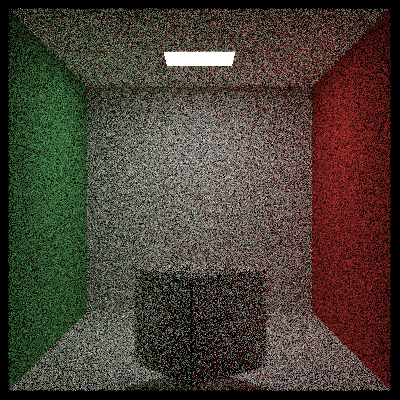
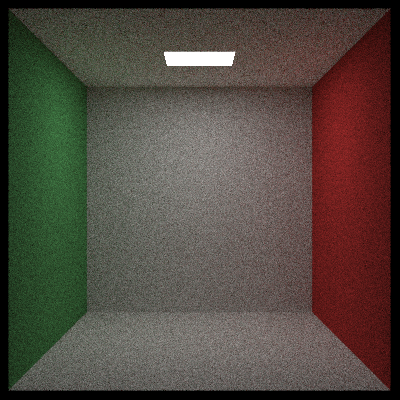
Interactive rendering

diff --git a/source/systems/ray-tracing-renderer/ray-tracing-renderer.cc b/source/systems/ray-tracing-renderer/ray-tracing-renderer.cc
@@ -28,62 +28,91 @@ glm::vec3 random_unit_vector()
     return glm::normalize(random_in_unit_sphere());
 }
 
-void racer::RayTracingRendererSystem::RenderScene(Scene *sceneToRender, unsigned char *pixels, int width, int height)
+void racer::RayTracingRendererSystem::RenderScene(Scene *sceneToRender, unsigned char *pixels_array, int width, int height)
 {
-    this->scene = sceneToRender;
+    scene_ = sceneToRender;
+    aspectRatio_ = (float)width / height;
+    fov_correction_ = static_cast<float>(tan(scene_->active_camera_->GetTanFOV() / 2.0f));
 
-    float aspectRatio = (float)width / height;
-    float fov_correction = static_cast<float>(tan(scene->active_camera_->GetTanFOV() / 2.0f));
+    width_ = width;
+    height_ = height;
 
-    glm::mat4 camera_rotation_matrix = scene->active_camera_->holdingEntity->transform->GetRotationMatrix();
+    pixels_array_ = pixels_array;
 
-    for (size_t shapeIndex = 0; shapeIndex < scene->shapes_to_render_.size(); shapeIndex++)
+    for (size_t shapeIndex = 0; shapeIndex < scene_->shapes_to_render_.size(); shapeIndex++)
     {
-        scene->shapes_to_render_[shapeIndex]->UpdateBoundingBox();
+        scene_->shapes_to_render_[shapeIndex]->UpdateBoundingBox();
     }
 
-    for (int i = 0; i < height; i++)
+    rendering_index_x_ = 0;
+    rendering_index_y_ = 0;
+
+    is_rendering_ = true;
+}
+
+void racer::RayTracingRendererSystem::UpdateRender()
+{
+    if (!is_rendering_)
+        return;
+
+    glm::mat4 camera_rotation_matrix = scene_->active_camera_->holdingEntity->transform->GetRotationMatrix();
+
+    int samples_per_pixel = 1500;
+    float scale = 1.0f / static_cast<float>(samples_per_pixel);
+
+    glm::vec3 pixelColor = glm::vec3(0.0);
+    for (int s = 0; s < samples_per_pixel; ++s)
     {
-        for (int k = 0; k < width; k++)
+        float u = (2.0f * ((static_cast<float>(rendering_index_x_ + rand() / (RAND_MAX + 1.0)) + 0.5f) / width_) - 1.0f) * fov_correction_;
+        float v = (1.0f - 2.0f * ((static_cast<float>(rendering_index_y_ + rand() / (RAND_MAX + 1.0)) + 0.5f) / height_)) * (fov_correction_ / aspectRatio_);
+        float d = -1;
+
+        glm::vec3 direction = {u, v, d};
+
+        glm::vec4 direction_rotated = camera_rotation_matrix * glm::vec4(direction, 1.0f);
+        direction = glm::vec3(direction_rotated);
+
+        glm::vec3 cameraOrigin = scene_->active_camera_->holdingEntity->transform->position_;
+        pixelColor += GetPixelColor(cameraOrigin, direction, 0);
+    }
+
+    pixelColor = glm::sqrt(pixelColor * scale);
+
+    pixelColor.r = std::min(1.0f, std::max(0.0f, pixelColor.r));
+    pixelColor.g = std::min(1.0f, std::max(0.0f, pixelColor.g));
+    pixelColor.b = std::min(1.0f, std::max(0.0f, pixelColor.b));
+
+    pixels_array_[rendering_index_y_ * width_ * 3 + rendering_index_x_ * 3] = (char)(pixelColor.r * 255);
+    pixels_array_[rendering_index_y_ * width_ * 3 + rendering_index_x_ * 3 + 1] = (char)(pixelColor.g * 255);
+    pixels_array_[rendering_index_y_ * width_ * 3 + rendering_index_x_ * 3 + 2] = (char)(pixelColor.b * 255);
+
+    rendering_index_x_++;
+    if (rendering_index_x_ >= width_)
+    {
+        rendering_index_x_ = 0;
+
+        rendering_index_y_++;
+        if (rendering_index_y_ >= height_)
         {
-            // std::cout << "progress: " << (((float)(i * height) + k) / (width * height)) * 100 << "%" << std::endl;
+            rendering_index_y_ = 0;
 
-            int samples_per_pixel = 1000;
-            float scale = 1.0f / static_cast<float>(samples_per_pixel);
-
-            glm::vec3 pixelColor = glm::vec3(0.0);
-            for (int s = 0; s < samples_per_pixel; ++s)
-            {
-                float u = (2.0f * ((static_cast<float>(k + rand() / (RAND_MAX + 1.0)) + 0.5f) / width) - 1.0f) * fov_correction;
-                float v = (1.0f - 2.0f * ((static_cast<float>(i + rand() / (RAND_MAX + 1.0)) + 0.5f) / height)) * (fov_correction / aspectRatio);
-                float d = -1;
-
-                glm::vec3 direction = {u, v, d};
-
-                glm::vec4 direction_rotated = camera_rotation_matrix * glm::vec4(direction, 1.0f);
-                direction = glm::vec3(direction_rotated);
-
-                glm::vec3 cameraOrigin = scene->active_camera_->holdingEntity->transform->position_;
-                pixelColor += GetPixelColor(cameraOrigin, direction, 0);
-            }
-
-            pixelColor = glm::sqrt(pixelColor * scale);
-
-            pixelColor.r = std::min(1.0f, std::max(0.0f, pixelColor.r));
-            pixelColor.g = std::min(1.0f, std::max(0.0f, pixelColor.g));
-            pixelColor.b = std::min(1.0f, std::max(0.0f, pixelColor.b));
-
-            pixels[i * width * 3 + k * 3] = (char)(pixelColor.r * 255);
-            pixels[i * width * 3 + k * 3 + 1] = (char)(pixelColor.g * 255);
-            pixels[i * width * 3 + k * 3 + 2] = (char)(pixelColor.b * 255);
+            is_rendering_ = false;
         }
     }
 }
 
+void racer::RayTracingRendererSystem::UpdateCurrentRenderingProperties(int &current_index_x, int &current_index_y, float &current_percentage)
+{
+    current_index_x = rendering_index_x_;
+    current_index_y = rendering_index_y_;
+
+    current_percentage = (static_cast<float>(rendering_index_y_ * width_ + rendering_index_x_) / static_cast<float>(width_ * height_)) * 100.0f;
+}
+
 glm::vec3 racer::RayTracingRendererSystem::GetPixelColor(glm::vec3 origin, glm::vec3 direction, int recursionLevel)
 {
-    if (recursionLevel >= 50)
-        return scene->environment_color_;
+    if (recursionLevel >= 20)
+        return scene_->environment_color_;
 
     glm::vec3 pixelColor = {0, 0, 0};
 
@@ -92,9 +121,9 @@ glm::vec3 racer::RayTracingRendererSystem::GetPixelColor(glm::vec3 origin, glm::
     IntersectionData nearIntersectedSphereData;
     RendererComponent *nearShape;
 
-    for (size_t shapeIndex = 0; shapeIndex < scene->shapes_to_render_.size(); shapeIndex++)
+    for (size_t shapeIndex = 0; shapeIndex < scene_->shapes_to_render_.size(); shapeIndex++)
     {
-        racer::IntersectionData intersectionData = scene->shapes_to_render_[shapeIndex]->RayTrace(racer::Ray(origin, direction));
+        racer::IntersectionData intersectionData = scene_->shapes_to_render_[shapeIndex]->RayTrace(racer::Ray(origin, direction));
 
         if (intersectionData.intersected)
         {
@@ -105,7 +134,7 @@ glm::vec3 racer::RayTracingRendererSystem::GetPixelColor(glm::vec3 origin, glm::
 
                 nearIntersectedSphereData = intersectionData;
 
-                nearShape = scene->shapes_to_render_[shapeIndex];
+                nearShape = scene_->shapes_to_render_[shapeIndex];
             }
         }
     }
@@ -165,7 +194,7 @@ glm::vec3 racer::RayTracingRendererSystem::GetPixelColor(glm::vec3 origin, glm::
     }
     else
     {
-        pixelColor = scene->environment_color_;
+        pixelColor = scene_->environment_color_;
     }
 
     return pixelColor;

diff --git a/source/application/application.cc b/source/application/application.cc
@@ -21,6 +21,11 @@ int racer::Application::Run()
 
     glGenTextures(1, &texture);
 
+    unsigned char *pixels = new unsigned char[3 * render_properties.width * render_properties.height];
+    glBindTexture(GL_TEXTURE_2D, texture);
+    glTexImage2D(GL_TEXTURE_2D, 0, GL_RGB, render_properties.width, render_properties.height, 0, GL_RGB, GL_UNSIGNED_BYTE, pixels);
+    glGenerateMipmap(GL_TEXTURE_2D);
+
     while (!window_.IsWindowClosed())
     {
         int width, height;
@@ -30,25 +35,31 @@ int racer::Application::Run()
         if (active_scene_->active_camera_ != NULL)
         {
             real_time_renderer_system_.RenderScene(active_scene_);
+            ray_tracing_renderer_system_.UpdateRender();
+            ray_tracing_renderer_system_.UpdateCurrentRenderingProperties(render_properties.current_x, render_properties.current_y, render_properties.percentage);
+            glBindTexture(GL_TEXTURE_2D, texture);
+            glTexImage2D(GL_TEXTURE_2D, 0, GL_RGB, render_properties.width, render_properties.height, 0, GL_RGB, GL_UNSIGNED_BYTE, pixels);
+            glGenerateMipmap(GL_TEXTURE_2D);
 
-            if (window_.RayTraceRender(render_properties))
+            RenderProperties updated_render_properties = render_properties;
+
+            if (window_.RayTraceRender(updated_render_properties))
             {
-                unsigned char *pixels = new unsigned char[3 * render_properties.width * render_properties.height];
-                ray_tracing_renderer_system_.RenderScene(active_scene_, pixels, render_properties.width, render_properties.height);
-                stbi_write_png((active_scene_->name_ + ".png").c_str(), render_properties.width, render_properties.height, 3, pixels, render_properties.width * 3);
-
-                glBindTexture(GL_TEXTURE_2D, texture);
-                glTexImage2D(GL_TEXTURE_2D, 0, GL_RGB, render_properties.width, render_properties.height, 0, GL_RGB, GL_UNSIGNED_BYTE, pixels);
-                glGenerateMipmap(GL_TEXTURE_2D);
-
-                window_.FinishedRayTracing();
+                render_properties = updated_render_properties;
 
                 delete pixels;
+                pixels = new unsigned char[3 * render_properties.width * render_properties.height];
+                ray_tracing_renderer_system_.RenderScene(active_scene_, pixels, render_properties.width, render_properties.height);
+                //stbi_write_png((active_scene_->name_ + ".png").c_str(), render_properties.width, render_properties.height, 3, pixels, render_properties.width * 3);
+
+                window_.FinishedRayTracing();
             }
         }
 
         window_.RenderFrame(active_scene_, real_time_renderer_system_.frame_buffer_, texture);
     }
+
+    delete pixels;
 
     return 0;
 }

diff --git a/source/application/application-ui.cc b/source/application/application-ui.cc
@@ -148,6 +148,12 @@ void racer::ApplicationUI::RenderRenderOptionsWindow()
     if (ImGui::Begin("Render Options"))
     {
         ImGuiIO &io = ImGui::GetIO();
+        
+        ImGui::Text("Percentage : %.2f%%", render_properties_.percentage);
+        ImGui::Text("Current pixel : (%d,%d)", render_properties_.current_x, render_properties_.current_y);
+
+        ImGui::Separator();
+
         ImGui::InputInt("width", &render_properties_.width);
         ImGui::InputInt("height", &render_properties_.height);
         if (ImGui::SmallButton("Render"))
@@ -310,6 +316,10 @@ bool racer::ApplicationUI::IsWindowClosed() const
 
 bool racer::ApplicationUI::RayTraceRender(RenderProperties &render_properties)
 {
+    render_properties_.current_x = render_properties.current_x;
+    render_properties_.current_y = render_properties.current_y;
+    render_properties_.percentage = render_properties.percentage;
+
     render_properties = render_properties_;
     return start_render_;
 }

diff --git a/source/application/application-ui.h b/source/application/application-ui.h
@@ -15,6 +15,9 @@ namespace racer
     struct RenderProperties
     {
         int width = 400, height = 400;
+
+        int current_x, current_y;
+        float percentage;
     };
 
     class ApplicationUI
@@ -33,11 +36,11 @@ namespace racer
         void RenderPreviewWindow(ImTextureID);
         void RenderRenderResultWindow(ImTextureID);
         void RenderRenderOptionsWindow();
-        void RenderSceneComponentHirerchy(Scene*);
+        void RenderSceneComponentHirerchy(Scene *);
 
         bool IsWindowClosed() const;
 
-        bool RayTraceRender(RenderProperties&);
+        bool RayTraceRender(RenderProperties &);
         void FinishedRayTracing();
 
     protected:
@@ -46,7 +49,7 @@ namespace racer
 
     private:
         int preview_window_width_, preview_window_height_;
-        
+
         bool start_render_ = false;
         RenderProperties render_properties_;
     };

diff --git a/source/systems/ray-tracing-renderer/ray-tracing-renderer.h b/source/systems/ray-tracing-renderer/ray-tracing-renderer.h
@@ -14,15 +14,23 @@ namespace racer
     {
     public:
         void RenderScene(Scene *sceneToRender, unsigned char *pixels, int width, int height);
+        void UpdateRender();
+        void UpdateCurrentRenderingProperties(int &, int &, float &);
 
         unsigned int render_result_id_;
 
     private:
         glm::vec3 GetPixelColor(glm::vec3 origin, glm::vec3 direction, int recursionLevel);
 
-        Scene *scene;
+        Scene *scene_;
+        float aspectRatio_;
+        float fov_correction_;
+        int width_, height_;
+
+        unsigned char *pixels_array_;
+
         bool is_rendering_ = false;
-        int rendering_index_x = 0, rendering_index_y = 0;
+        int rendering_index_x_ = 0, rendering_index_y_ = 0;
     };
 }
 

diff --git a/source/application/window.cc b/source/application/window.cc
@@ -15,6 +15,7 @@ racer::Window::Window()
         throw "Failed to Create Window";
 
     glfwMakeContextCurrent(window_);
+    glfwSwapInterval(0);
 
     if (!gladLoadGLLoader((GLADloadproc)glfwGetProcAddress))
         throw "Failed to initialize GLAD";
